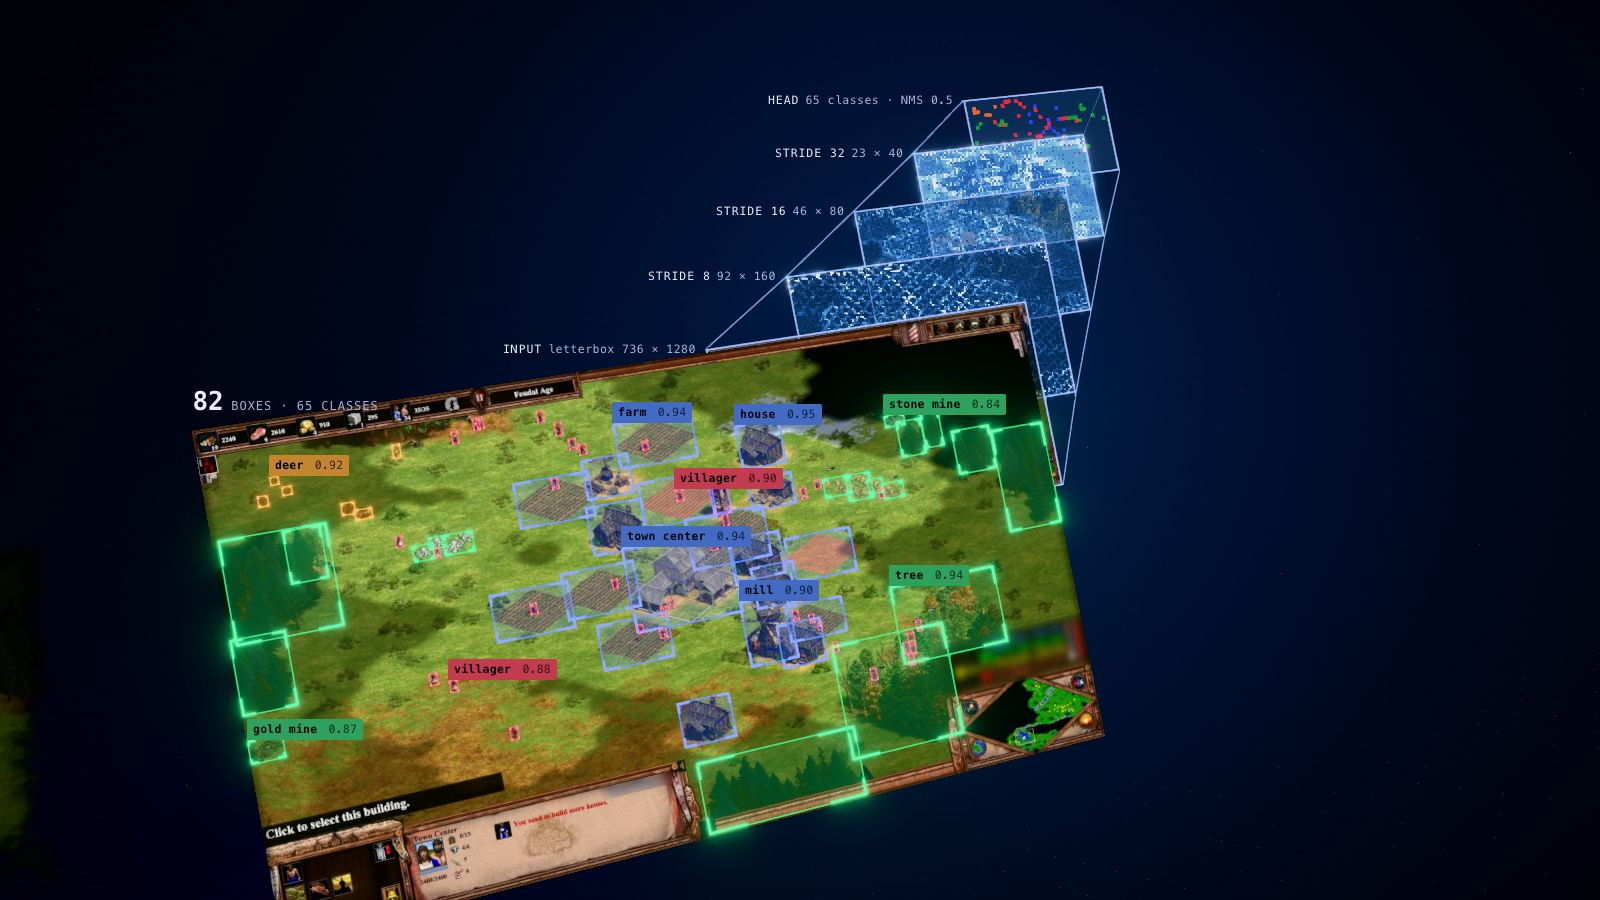
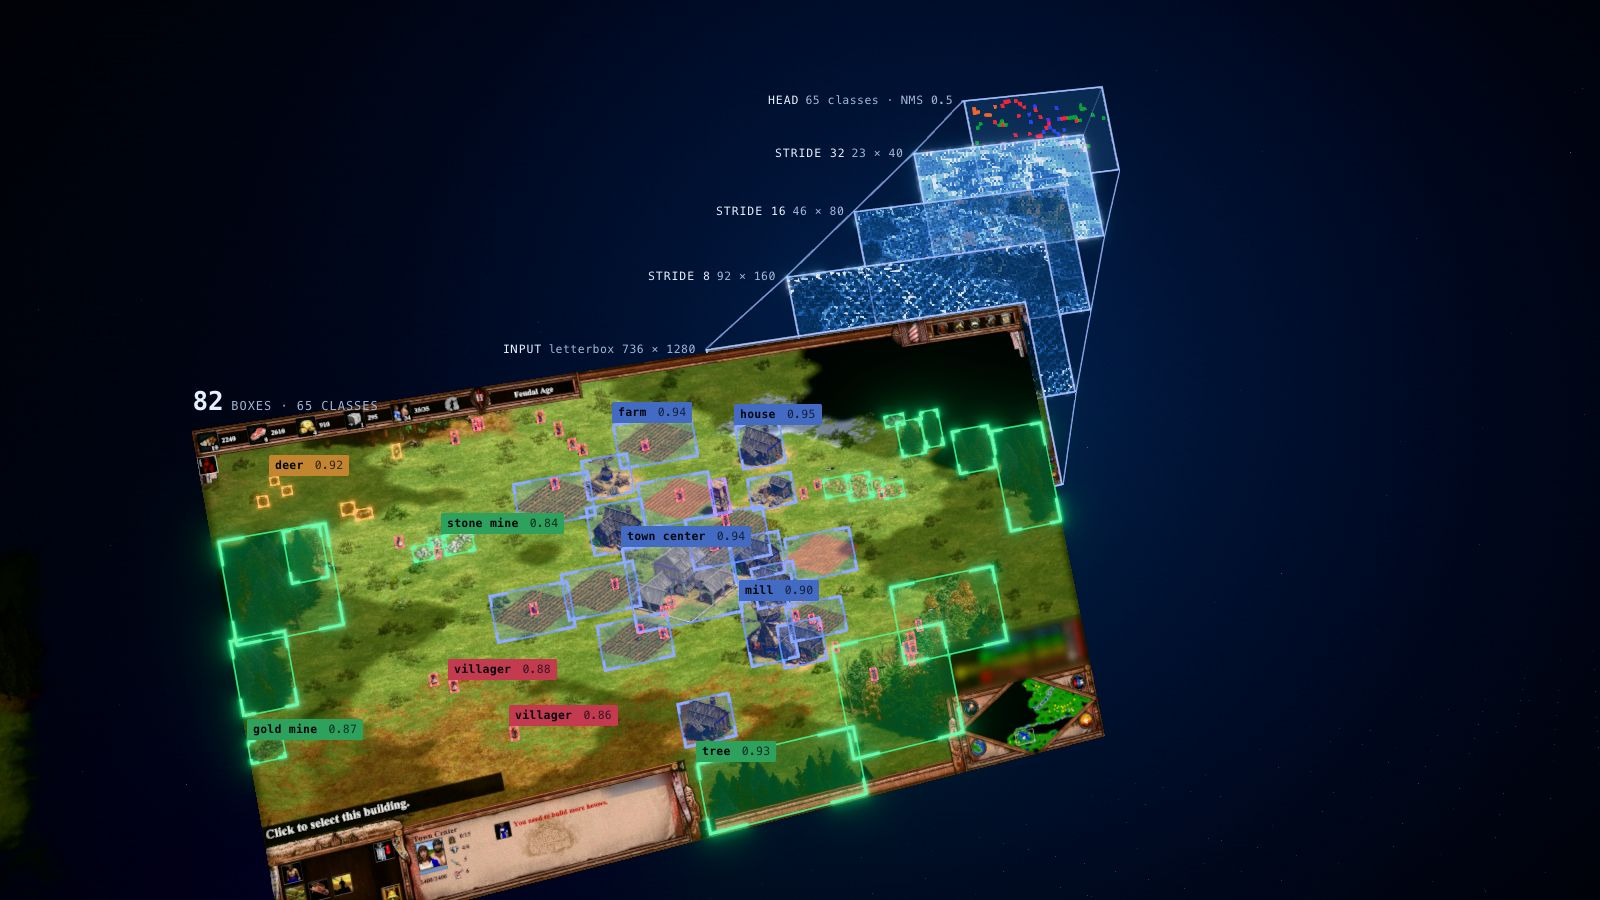
fix(landing): label each class on a detection that stands clear
The Detect chapter labelled the first detection of each class. The first
stone mine is a small pile at the edge of a pine stand; trees and mines
share the resource colour, so its label read as if it named the trees.
Each class is now labelled on its most confident detection that keeps
clear of boxes of other classes and of the labels already placed: the
stone label moves to the stone pile on the left, and the two villager
labels no longer overlap.

diff --git a/apps/landing/src/components/walkthrough/scene/overlays.ts b/apps/landing/src/components/walkthrough/scene/overlays.ts
@@ -29,12 +29,28 @@ export function createOverlays(data: TurnData, board: Board, decision: THREE.Gro
   const conf = (e: TurnEntity) => (e.conf == null ? "" : e.conf.toFixed(2));
 
   // ---- Detect: class labels on a few boxes, and the count --------------------------------
+  // Each class is labelled on a detection that stands clear of boxes of other classes:
+  // a stone pile at the edge of a forest shares the forest's colour, and a label there
+  // would seem to name the trees.
+  const gap = (a: TurnEntity, b: TurnEntity) => {
+    const dx = Math.max(0, Math.max(a.x, b.x) - Math.min(a.x + a.w, b.x + b.w));
+    const dy = Math.max(0, Math.max(a.y, b.y) - Math.min(a.y + a.h, b.y + b.h));
+    return Math.hypot(dx, dy * (data.frame.height / data.frame.width));
+  };
+  const clearance = (e: TurnEntity) => Math.min(1, ...data.entities.filter((o) => o.cls !== e.cls).map((o) => gap(e, o)));
   const used = new Set<string>();
+  const chosen: TurnEntity[] = [];
   // Phones show the first few only (`is-minor` hides the rest there).
   const entityLabels = LABEL_CLASSES.flatMap((cls, i) => {
-    const entity = data.entities.find((e) => e.cls === cls && !used.has(e.id));
+    const candidates = data.entities.filter((e) => e.cls === cls && !used.has(e.id));
+    // The most confident of those clear of other classes and of the labels already
+    // placed; the clearest if none is.
+    const apart = (e: TurnEntity) => chosen.every((c) => gap(e, c) > 0.06);
+    const score = (e: TurnEntity) => (clearance(e) > 0.006 && apart(e) ? 1 + (e.conf ?? 0) : clearance(e));
+    const entity = candidates.sort((a, b) => score(b) - score(a))[0];
     if (!entity) return [];
     used.add(entity.id);
+    chosen.push(entity);
     const label = labels.add(el(`wt3d-det wt3d-cat-${entity.cat}${i >= 5 ? " is-minor" : ""}`, `${entity.cls.replace(/_/g, " ")} <b>${conf(entity)}</b>`), {
       at: (out) => board.group.localToWorld(board.entityTop(entity, out)),
       offset: [0, -1],
